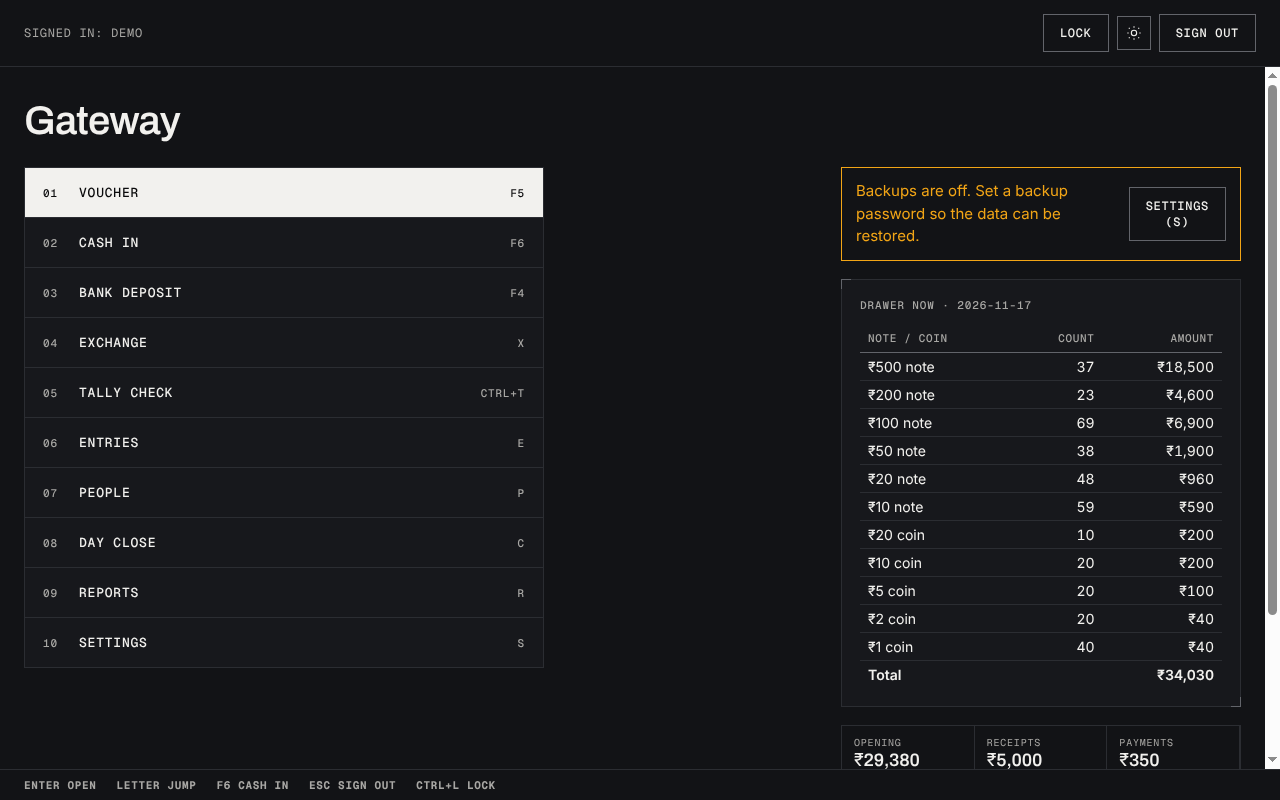
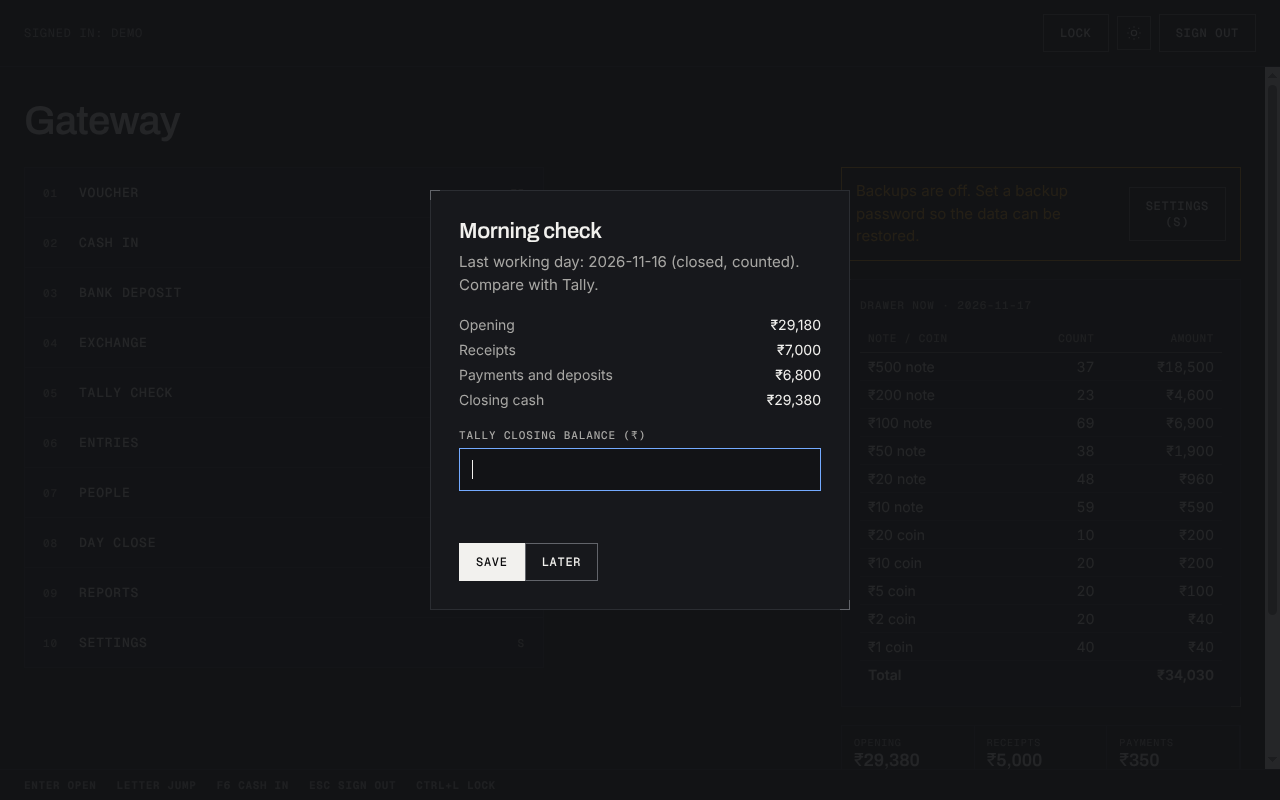
0.11.0: several vouchers from one person in one go
Claude-Session: https://claude.ai/code/session_01Cau8S6biyQHEmk6XkPsXJC

diff --git a/src/ui/screens/voucher.js b/src/ui/screens/voucher.js
@@ -14,7 +14,7 @@
     let types;
     try { types = (await api.lists.get()).expenseTypes.filter((t) => t.active); } catch (e) { A.toast(e.message); return; }
 
-    const st = { person: null, amount: 0, brought: 0, preview: null, sel: 0, alts: [], altIdx: 0, results: [], pick: 0, stage: 'person' };
+    const st = { person: null, amount: 0, parts: [], brought: 0, preview: null, sel: 0, alts: [], altIdx: 0, results: [], pick: 0, stage: 'person' };
 
     // ---- step 1: person ----
     const personIn = h('input', { type: 'text', autocomplete: 'off', placeholder: 'Type a name', 'aria-label': 'Person' });
@@ -27,9 +27,31 @@
     digits(amountIn, 8);
     const broughtIn = h('input', { type: 'text', inputmode: 'numeric', autocomplete: 'off', 'aria-label': 'Brought by receiver' });
     digits(broughtIn, 8);
-    const s2 = h('div', { class: 'step amount-row', hidden: true },
-      h('label', { class: 'field' }, h('span', {}, 'Voucher amount (₹)'), amountIn),
-      h('label', { class: 'field' }, h('span', {}, 'Brought by receiver (₹, Tab)'), broughtIn));
+    // More vouchers from the same person: a new box appears under the last one each time it is filled and Enter is pressed.
+    const amts = [amountIn];
+    const moreBox = h('div', { class: 'more-vouchers' });
+    const totalNote = h('p', { class: 'lede', hidden: true });
+    const MAX_VOUCHERS = 10;
+    const partsNow = () => amts.map((i) => Number(i.value || 0)).filter((n) => n > 0);
+    function updateTotal() {
+      const p = partsNow();
+      totalNote.hidden = p.length < 2;
+      totalNote.textContent = `${p.length} vouchers · ${p.join(' + ')} = ${F.inr(p.reduce((t, n) => t + n, 0))}`;
+    }
+    amountIn.addEventListener('input', updateTotal);
+    function addVoucherRow() {
+      const input = h('input', { type: 'text', inputmode: 'numeric', autocomplete: 'off', 'aria-label': `Voucher ${amts.length + 1} amount` });
+      digits(input, 8); input.addEventListener('input', updateTotal);
+      amts.push(input);
+      moreBox.append(h('label', { class: 'field' }, h('span', {}, `Voucher ${amts.length} (₹)`), input));
+      input.focus();
+    }
+    function clearVoucherRows() { amts.length = 1; moreBox.replaceChildren(); totalNote.hidden = true; }
+    const s2 = h('div', { class: 'step', hidden: true },
+      h('div', { class: 'amount-row' },
+        h('label', { class: 'field' }, h('span', {}, 'Voucher amount (₹)'), amountIn),
+        h('label', { class: 'field' }, h('span', {}, 'Brought by receiver (₹, Tab)'), broughtIn)),
+      moreBox, totalNote);
 
     // ---- step 3: payout ----
     const cards = h('div', { class: 'cards', tabindex: '0', 'aria-label': 'Payout choices' });
@@ -123,20 +145,36 @@
 
     // ---------- step 2 ----------
     const goPreview = async () => {
-      const n = Number(amountIn.value);
-      if (!n) { A.toast('Enter the voucher amount'); amountIn.focus(); return; }
-      st.amount = n; st.brought = Number(broughtIn.value || 0);
+      const parts = partsNow();
+      if (!parts.length) { A.toast('Enter the voucher amount'); amountIn.focus(); return; }
+      st.parts = parts; st.amount = parts.reduce((t, n) => t + n, 0); st.brought = Number(broughtIn.value || 0);
       await loadPreview();
     };
+    // Enter on a box: the next box; on the last box, a filled one adds another voucher and an empty one carries on.
+    const enterOn = async (i) => {
+      if (i < amts.length - 1) { amts[i + 1].focus(); amts[i + 1].select(); return; }
+      if (amts[i].value === '') { if (i === 0) { A.toast('Enter the voucher amount'); return; } await goPreview(); return; }
+      if (amts.length >= MAX_VOUCHERS) { await goPreview(); return; }
+      addVoucherRow();
+    };
     amountIn.addEventListener('keydown', async (e) => {
-      if (e.key === 'Backspace' && amountIn.value === '') { e.preventDefault(); show('person'); personIn.focus(); personIn.select(); return; }
+      if (e.key === 'Backspace' && amountIn.value === '' && amts.length === 1) { e.preventDefault(); show('person'); personIn.focus(); personIn.select(); return; }
       if (e.key !== 'Enter') return;
-      e.preventDefault(); await goPreview();
+      e.preventDefault(); await enterOn(0);
     });
     broughtIn.addEventListener('keydown', async (e) => {
       if (e.key === 'Backspace' && broughtIn.value === '') { e.preventDefault(); amountIn.focus(); amountIn.select(); return; }
       if (e.key !== 'Enter') return;
-      e.preventDefault(); await goPreview();
+      e.preventDefault(); await enterOn(0);
+    });
+    // boxes added later: Backspace on an empty one removes it and goes back up
+    moreBox.addEventListener('keydown', async (e) => {
+      const i = amts.indexOf(e.target);
+      if (i < 1) return;
+      if (e.key === 'Enter') { e.preventDefault(); await enterOn(i); }
+      else if (e.key === 'Backspace' && e.target.value === '' && i === amts.length - 1) {
+        e.preventDefault(); amts.pop(); moreBox.lastElementChild.remove(); updateTotal(); amts[amts.length - 1].focus(); amts[amts.length - 1].select();
+      }
     });
     async function loadPreview(customPayout) {
       try {
@@ -289,12 +327,12 @@
           expenseTypeId: Number(row.querySelector('select').value), amount: Number(row.querySelector('input.amt').value), note: row.querySelector('input.note').value,
         })).filter((l) => l.expenseTypeId && l.amount);
         const newBalance = Number(st.person.balance) + st.amount - c.payout;
-        const summaryLines = [['Person', st.person.name], ['Voucher', F.inr(st.amount)], ['Pay', F.inr(c.payout)], ...(c.brought ? [['Brought by receiver', F.inr(c.brought)]] : []), ['Balance after', balanceText(newBalance)],
+        const summaryLines = [['Person', st.person.name], [st.parts.length > 1 ? `Vouchers (${st.parts.length})` : 'Voucher', st.parts.length > 1 ? `${st.parts.map((n) => F.inr(n)).join(' + ')} = ${F.inr(st.amount)}` : F.inr(st.amount)], ['Pay', F.inr(c.payout)], ...(c.brought ? [['Brought by receiver', F.inr(c.brought)]] : []), ['Balance after', balanceText(newBalance)],
           ['Give', piecesText(give) || 'nothing'], ...(sum(back) ? [['Receive back', piecesText(back)]] : []),
           ...lines.map((l) => [types.find((t) => t.id === l.expenseTypeId).name, F.inr(l.amount)])];
         if (remarkIn.value.trim()) summaryLines.push(['Remark', remarkIn.value.trim()]);
         if (!await A.confirmDialog({ title: 'Save this voucher?', lines: summaryLines, yesLabel: 'Save' })) { remarkIn.focus(); return; }
-        const payload = { personId: st.person.id, amount: st.amount, give, back, lines, remark: remarkIn.value };
+        const payload = { personId: st.person.id, amount: st.amount, parts: st.parts, give, back, lines, remark: remarkIn.value };
         let result;
         try { result = await api.voucher.save(payload); } catch (e) {
           if (e.code !== 'CONFIRM_LIMIT') throw e;
@@ -307,7 +345,7 @@
     }
 
     function reset() {
-      st.person = null; st.preview = null; st.amount = 0; st.brought = 0;
+      st.person = null; st.preview = null; st.amount = 0; st.parts = []; st.brought = 0; clearVoucherRows();
       personIn.value = ''; amountIn.value = ''; broughtIn.value = ''; remarkIn.value = ''; chip.hidden = true; pickList.hidden = true; st.results = [];
       linesBody.replaceChildren(); error.textContent = '';
       refreshSummary();
@@ -318,7 +356,7 @@
     // ---------- screen ----------
     const node = page({
       title: 'Voucher',
-      hints: ['Enter next step', 'Backspace on an empty box: back', 'Alt+C new person', 'Esc leave'],
+      hints: ['Enter next step', 'Enter on an empty voucher box: continue', 'Backspace on an empty box: back', 'Alt+C new person', 'Esc leave'],
       body: h('div', { class: 'cols' }, h('div', { class: 'block panel' }, s1, s2, s3, s4, s5, s6), summary),
     });
     A.show(node);

diff --git a/src/ledger/voucher.js b/src/ledger/voucher.js
@@ -115,7 +115,16 @@ function install(LedgerService) {
     needId(input.personId, 'a person');
     const give = normalizePieces(input.give || {});
     const back = normalizePieces(input.back || {});
-    const remark = text(input.remark, 200, 'The remark');
+    // One person, several vouchers, one payout: `parts` are the individual voucher amounts. They are kept in the remark.
+    let parts = null;
+    if (input.parts !== undefined && input.parts !== null) {
+      if (!Array.isArray(input.parts) || input.parts.length < 1 || input.parts.length > 10) throw new UserError('The voucher amounts are not valid.');
+      parts = input.parts.map((n) => intIn(n, 1, this._maxAmount(), 'A voucher amount'));
+      if (parts.reduce((t, n) => t + n, 0) !== amount) throw new UserError('The voucher amounts must add up to the total.');
+      if (parts.length < 2) parts = null;
+    }
+    const userRemark = text(input.remark, 200, 'The remark');
+    const remark = parts ? `Vouchers ${parts.join(' + ')}${userRemark ? ' · ' + userRemark : ''}`.slice(0, 260) : userRemark;
     if (!Array.isArray(input.lines) || input.lines.length < 1 || input.lines.length > 30) throw new UserError('Add at least one expense line.');
     const lines = input.lines.map((l, i) => {
       if (!l || typeof l !== 'object') throw new UserError('An expense line is not valid.');
@@ -154,7 +163,7 @@ function install(LedgerService) {
       });
       this.repo.insertPieces(entryId, net);
       lines.forEach((l) => this.repo.insertLine(entryId, l));
-      this.repo.audit({ userId: s.userId, action: 'entry_save', table: 'entries', rowId: entryId, after: { type: 'voucher', person: person.name, amount, paid, balanceDelta: delta, newBalance, lines, give, back } });
+      this.repo.audit({ userId: s.userId, action: 'entry_save', table: 'entries', rowId: entryId, after: { type: 'voucher', person: person.name, amount, parts, paid, balanceDelta: delta, newBalance, lines, give, back } });
       return { id: entryId, paid, newBalance, personName: person.name };
     });
   };

diff --git a/src/ui/theme/theme.css b/src/ui/theme/theme.css
@@ -135,7 +135,7 @@ tr[tabindex]:focus .minus, tr[tabindex]:hover .minus { color: var(--ink); }
 .step { margin-bottom: 18px; }
 .step[hidden] { display: none; }
 .amount-row { display: grid; grid-template-columns: 1fr 1fr; gap: 12px; }
-.amount-row[hidden] { display: none; }
+.more-vouchers { display: grid; grid-template-columns: calc(50% - 6px); }
 .card-opt .tag { font: 500 11px 'Geist Mono', monospace; text-transform: uppercase; letter-spacing: 0.08em; margin-bottom: 4px; }
 .pick { border: 1px solid var(--line-strong); background: var(--sunken); max-height: 220px; overflow: auto; }
 .pick div { padding: 8px 12px; display: flex; justify-content: space-between; gap: 12px; border-bottom: 1px solid var(--line); }

diff --git a/CHANGES.md b/CHANGES.md
@@ -1,5 +1,12 @@
 # Cash Desk changes
 
+## 0.11.0 — Several vouchers from one person
+- Voucher screen: after the first amount, press Enter and a "Voucher 2" box appears below it. Fill it and press Enter for a third, and so on (up to 10). Press Enter on an empty box to carry on. Backspace on an empty box removes it.
+- The vouchers are added into one total. You get one payout, one set of notes and one set of expense lines (they start from the total).
+- The entry keeps the separate amounts in its remark, for example "Vouchers 120 + 143 · tea". The confirm box lists them too.
+- One extra Enter for a single voucher: type the amount, Enter, Enter again on the empty box.
+- Brought-by-receiver applies to the total.
+
 ## 0.10.0 — Easier navigation
 - Gateway is now one vertical list. Up and Down move one line at a time (before, the two columns made the cursor jump sideways).
 - Settings opens with the cursor on the tab bar, not in the first box. Left and Right change tab, Down or Enter go into the page, Alt+Up comes back to the tabs. After an action inside a tab (adding a user, backing up) the cursor stays in the page.
